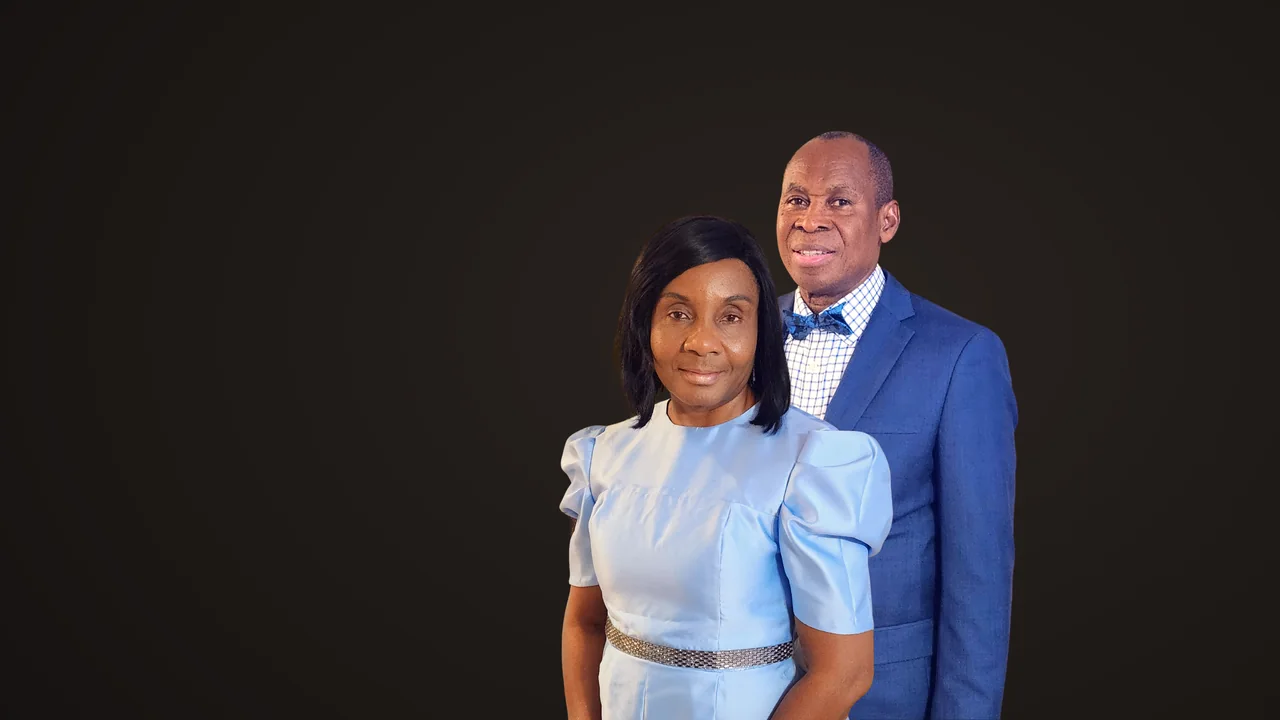
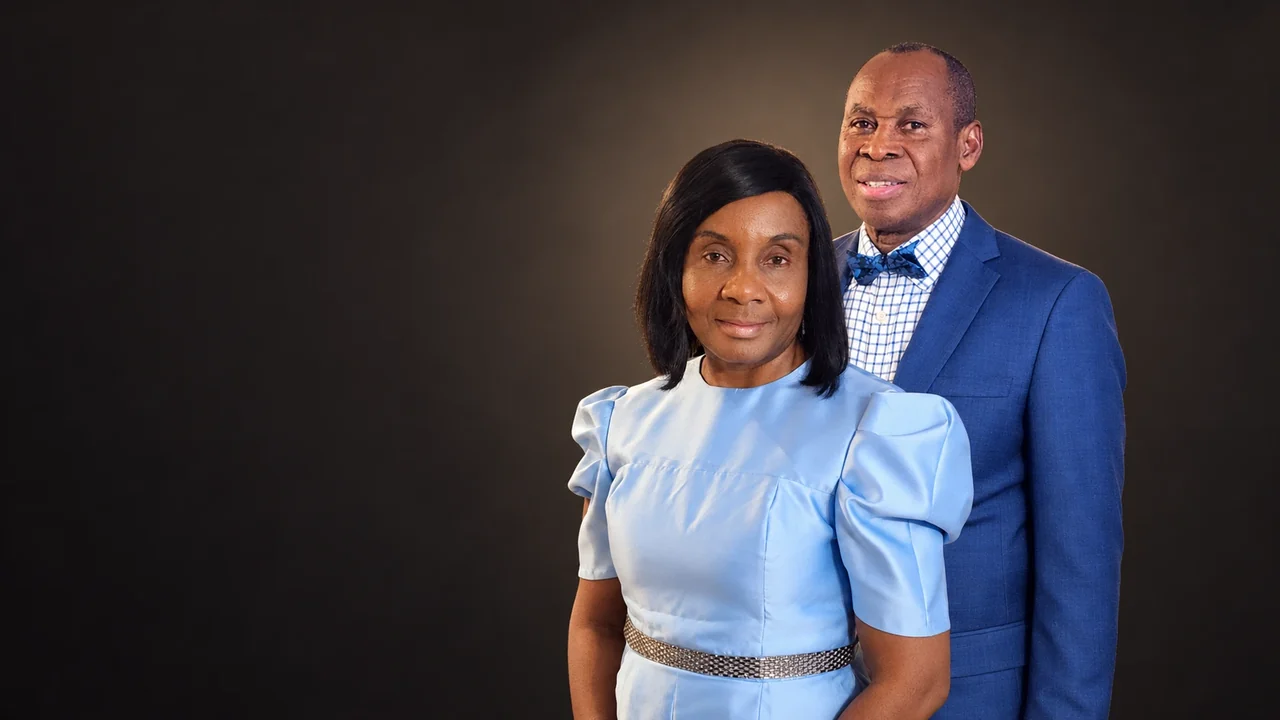
Install the ChatGPT pastors portrait as the opening slide
Generated by the user from prompt #1; kept at native 1672px (no
upscaling) with a 1280 variant, provenance embedded, phone crop tuned so
both faces stay in frame. Pastors page hero uses the same focal rules.

Claude-Session: https://claude.ai/code/session_01YHex5eoyGhJp1Q21jw8krX

diff --git a/site/index.html b/site/index.html
@@ -84,7 +84,7 @@ FINISH: unreviewed and undocumented is unfinished; this build ends with the fini
 <main id="main">
 <section class="stack" aria-label="Welcome">
   <article class="slide" id="s1">
-    <div class="slide__media"><img src="assets/img/slots/hero-pastors-2400.webp" srcset="assets/img/slots/hero-pastors-1280.webp 1280w, assets/img/slots/hero-pastors-2400.webp 2400w" sizes="100vw" alt="Pastors Joel and Funmi Uzoma" fetchpriority="high" class="op-pastors"></div>
+    <div class="slide__media"><img src="assets/img/slots/hero-pastors-2400.webp" srcset="assets/img/slots/hero-pastors-1280.webp 1280w, assets/img/slots/hero-pastors-2400.webp 1672w" sizes="100vw" alt="Pastors Joel and Funmi Uzoma" fetchpriority="high" class="op-pastors"></div>
     <div class="slide__shade"></div>
     <div class="slide__copy">
       <h1 class="title-xl">Dayspring Chapel</h1>

diff --git a/src/pages/index.html b/src/pages/index.html
@@ -16,7 +16,7 @@ FINISH: unreviewed and undocumented is unfinished; this build ends with the fini
 <main id="main">
 <section class="stack" aria-label="Welcome">
   <article class="slide" id="s1">
-    <div class="slide__media"><img src="assets/img/slots/hero-pastors-2400.webp" srcset="assets/img/slots/hero-pastors-1280.webp 1280w, assets/img/slots/hero-pastors-2400.webp 2400w" sizes="100vw" alt="Pastors Joel and Funmi Uzoma" fetchpriority="high" class="op-pastors"></div>
+    <div class="slide__media"><img src="assets/img/slots/hero-pastors-2400.webp" srcset="assets/img/slots/hero-pastors-1280.webp 1280w, assets/img/slots/hero-pastors-2400.webp 1672w" sizes="100vw" alt="Pastors Joel and Funmi Uzoma" fetchpriority="high" class="op-pastors"></div>
     <div class="slide__shade"></div>
     <div class="slide__copy">
       <h1 class="title-xl">Dayspring Chapel</h1>

diff --git a/src/pages/pastors.html b/src/pages/pastors.html
@@ -7,7 +7,7 @@ og: slots/hero-pastors-1280.webp
 
 <main id="main">
 <section class="phero" aria-labelledby="page-title">
-  <div class="slide__media"><img src="assets/img/slots/hero-pastors-2400.webp" srcset="assets/img/slots/hero-pastors-1280.webp 1280w, assets/img/slots/hero-pastors-2400.webp 2400w" sizes="100vw" alt="Pastors Joel and Funmi Uzoma" fetchpriority="high" style="object-position:62% 50%"></div>
+  <div class="slide__media"><img src="assets/img/slots/hero-pastors-2400.webp" srcset="assets/img/slots/hero-pastors-1280.webp 1280w, assets/img/slots/hero-pastors-2400.webp 1672w" sizes="100vw" alt="Pastors Joel and Funmi Uzoma" fetchpriority="high" class="op-pastors"></div>
   <div class="slide__copy">
     <h1 class="title-xl" id="page-title">The pastors</h1>
     <p class="text">Joined in marriage and in ministry since 1995.</p>

diff --git a/site/pastors.html b/site/pastors.html
@@ -75,7 +75,7 @@
 
 <main id="main">
 <section class="phero" aria-labelledby="page-title">
-  <div class="slide__media"><img src="assets/img/slots/hero-pastors-2400.webp" srcset="assets/img/slots/hero-pastors-1280.webp 1280w, assets/img/slots/hero-pastors-2400.webp 2400w" sizes="100vw" alt="Pastors Joel and Funmi Uzoma" fetchpriority="high" style="object-position:62% 50%"></div>
+  <div class="slide__media"><img src="assets/img/slots/hero-pastors-2400.webp" srcset="assets/img/slots/hero-pastors-1280.webp 1280w, assets/img/slots/hero-pastors-2400.webp 1672w" sizes="100vw" alt="Pastors Joel and Funmi Uzoma" fetchpriority="high" class="op-pastors"></div>
   <div class="slide__copy">
     <h1 class="title-xl" id="page-title">The pastors</h1>
     <p class="text">Joined in marriage and in ministry since 1995.</p>

diff --git a/site/assets/css/main.css b/site/assets/css/main.css
@@ -378,4 +378,4 @@ html.reduce-motion *, html.reduce-motion *::before, html.reduce-motion *::after 
 
 .op-pastors { object-position: 62% 50%; }
 .op-ribbon { object-position: 60% 50%; }
-@media (max-width: 860px) { .op-pastors { object-position: 66% 0%; } .op-ribbon { object-position: 30% 20%; } }
+@media (max-width: 860px) { .op-pastors { object-position: 73% 30%; } .op-ribbon { object-position: 30% 20%; } }
